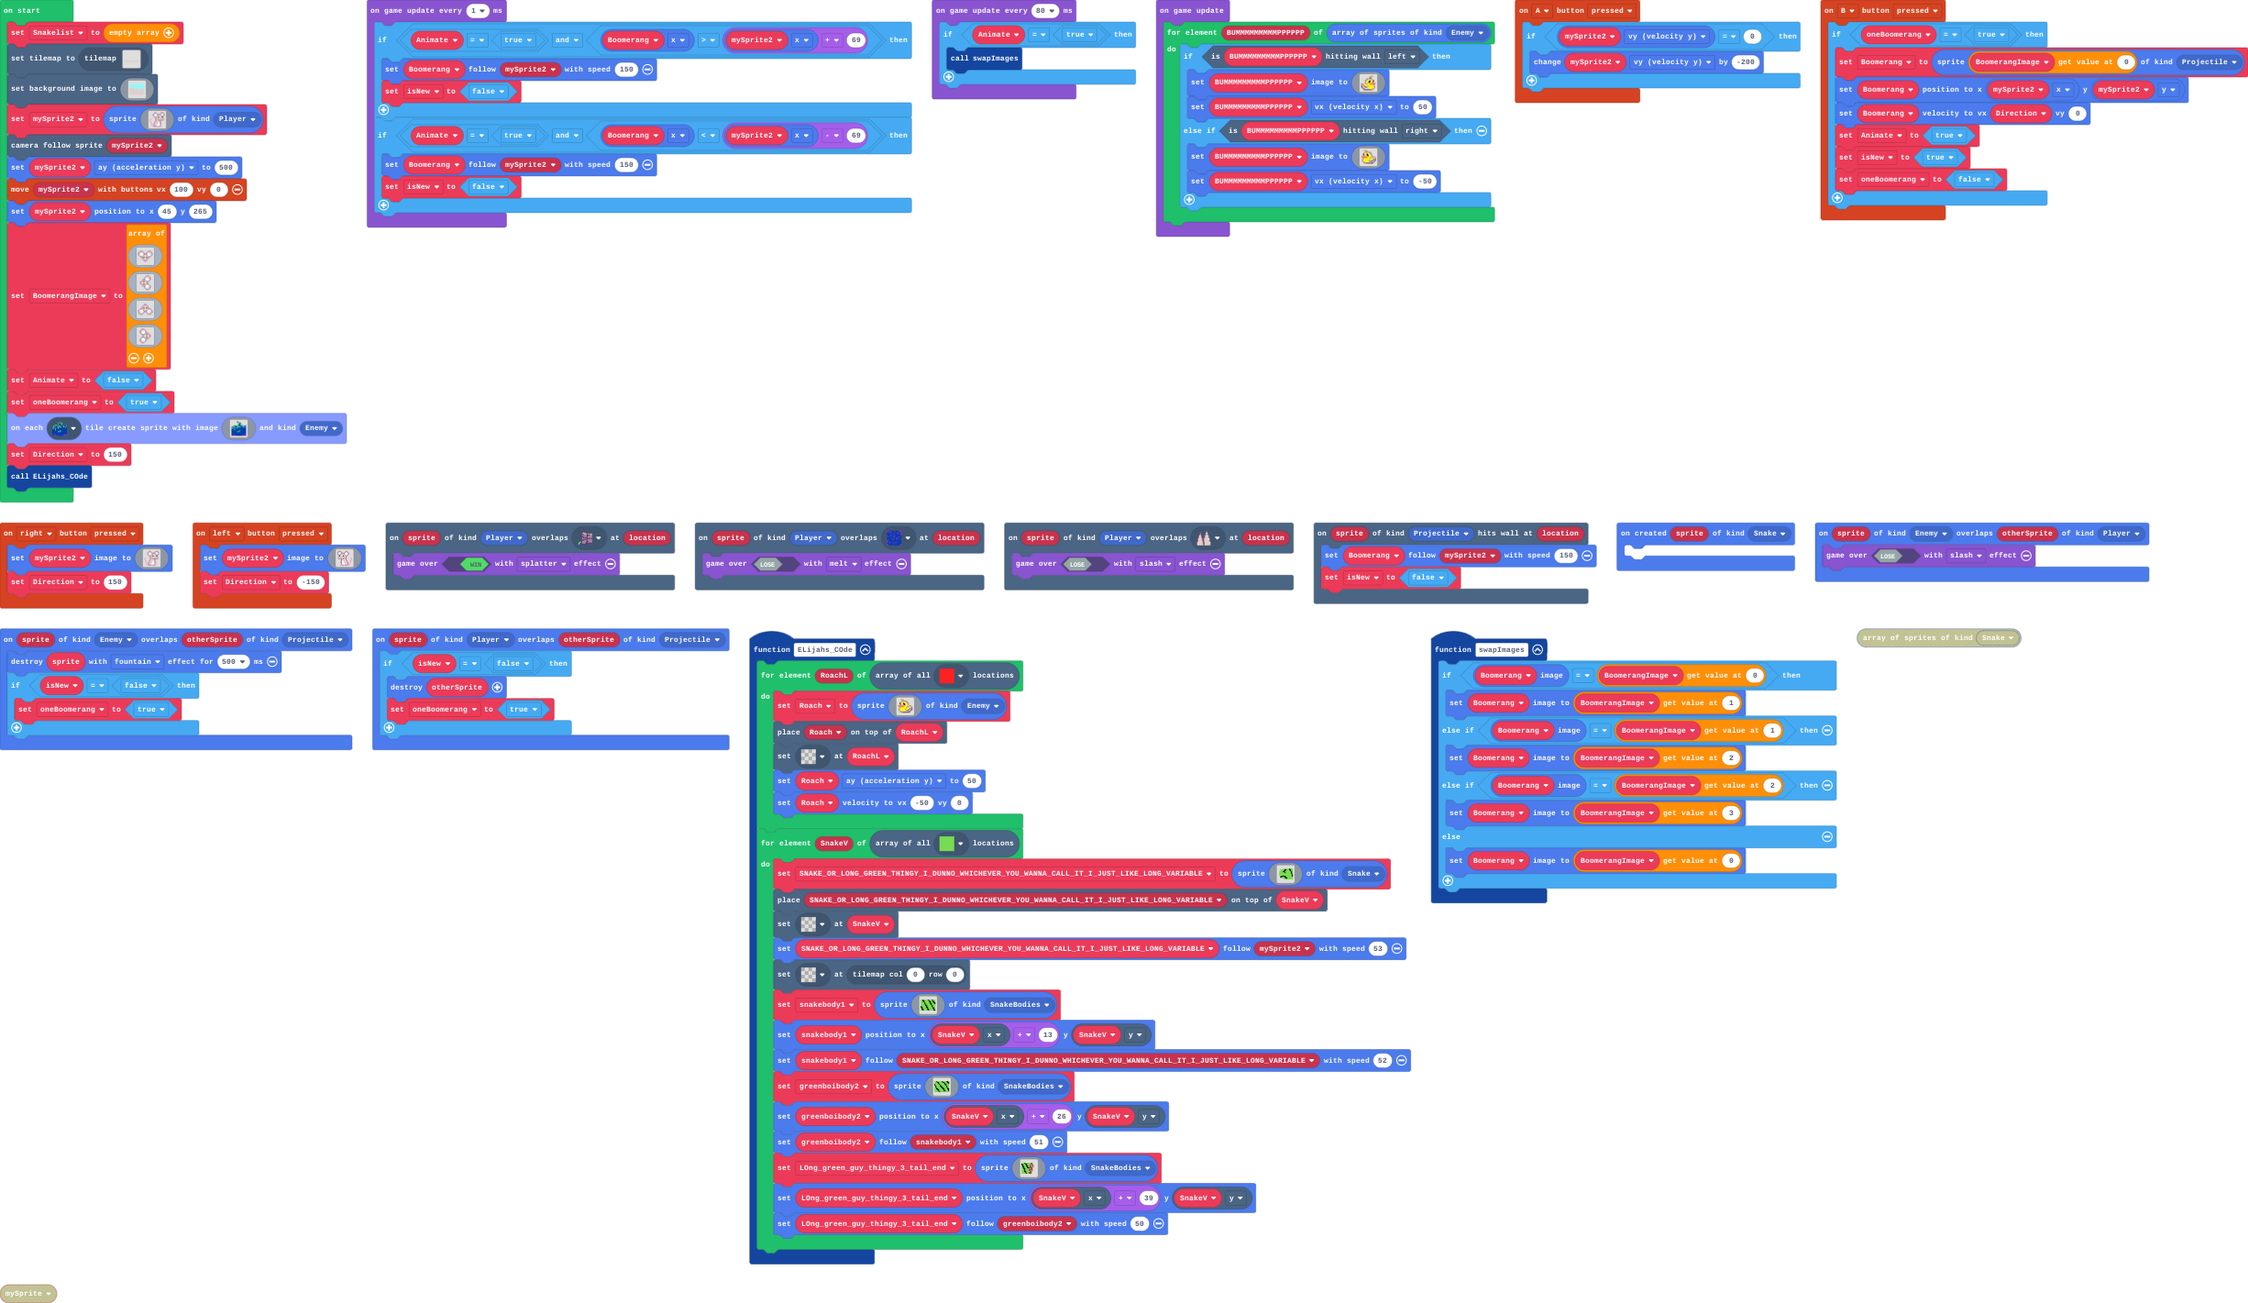
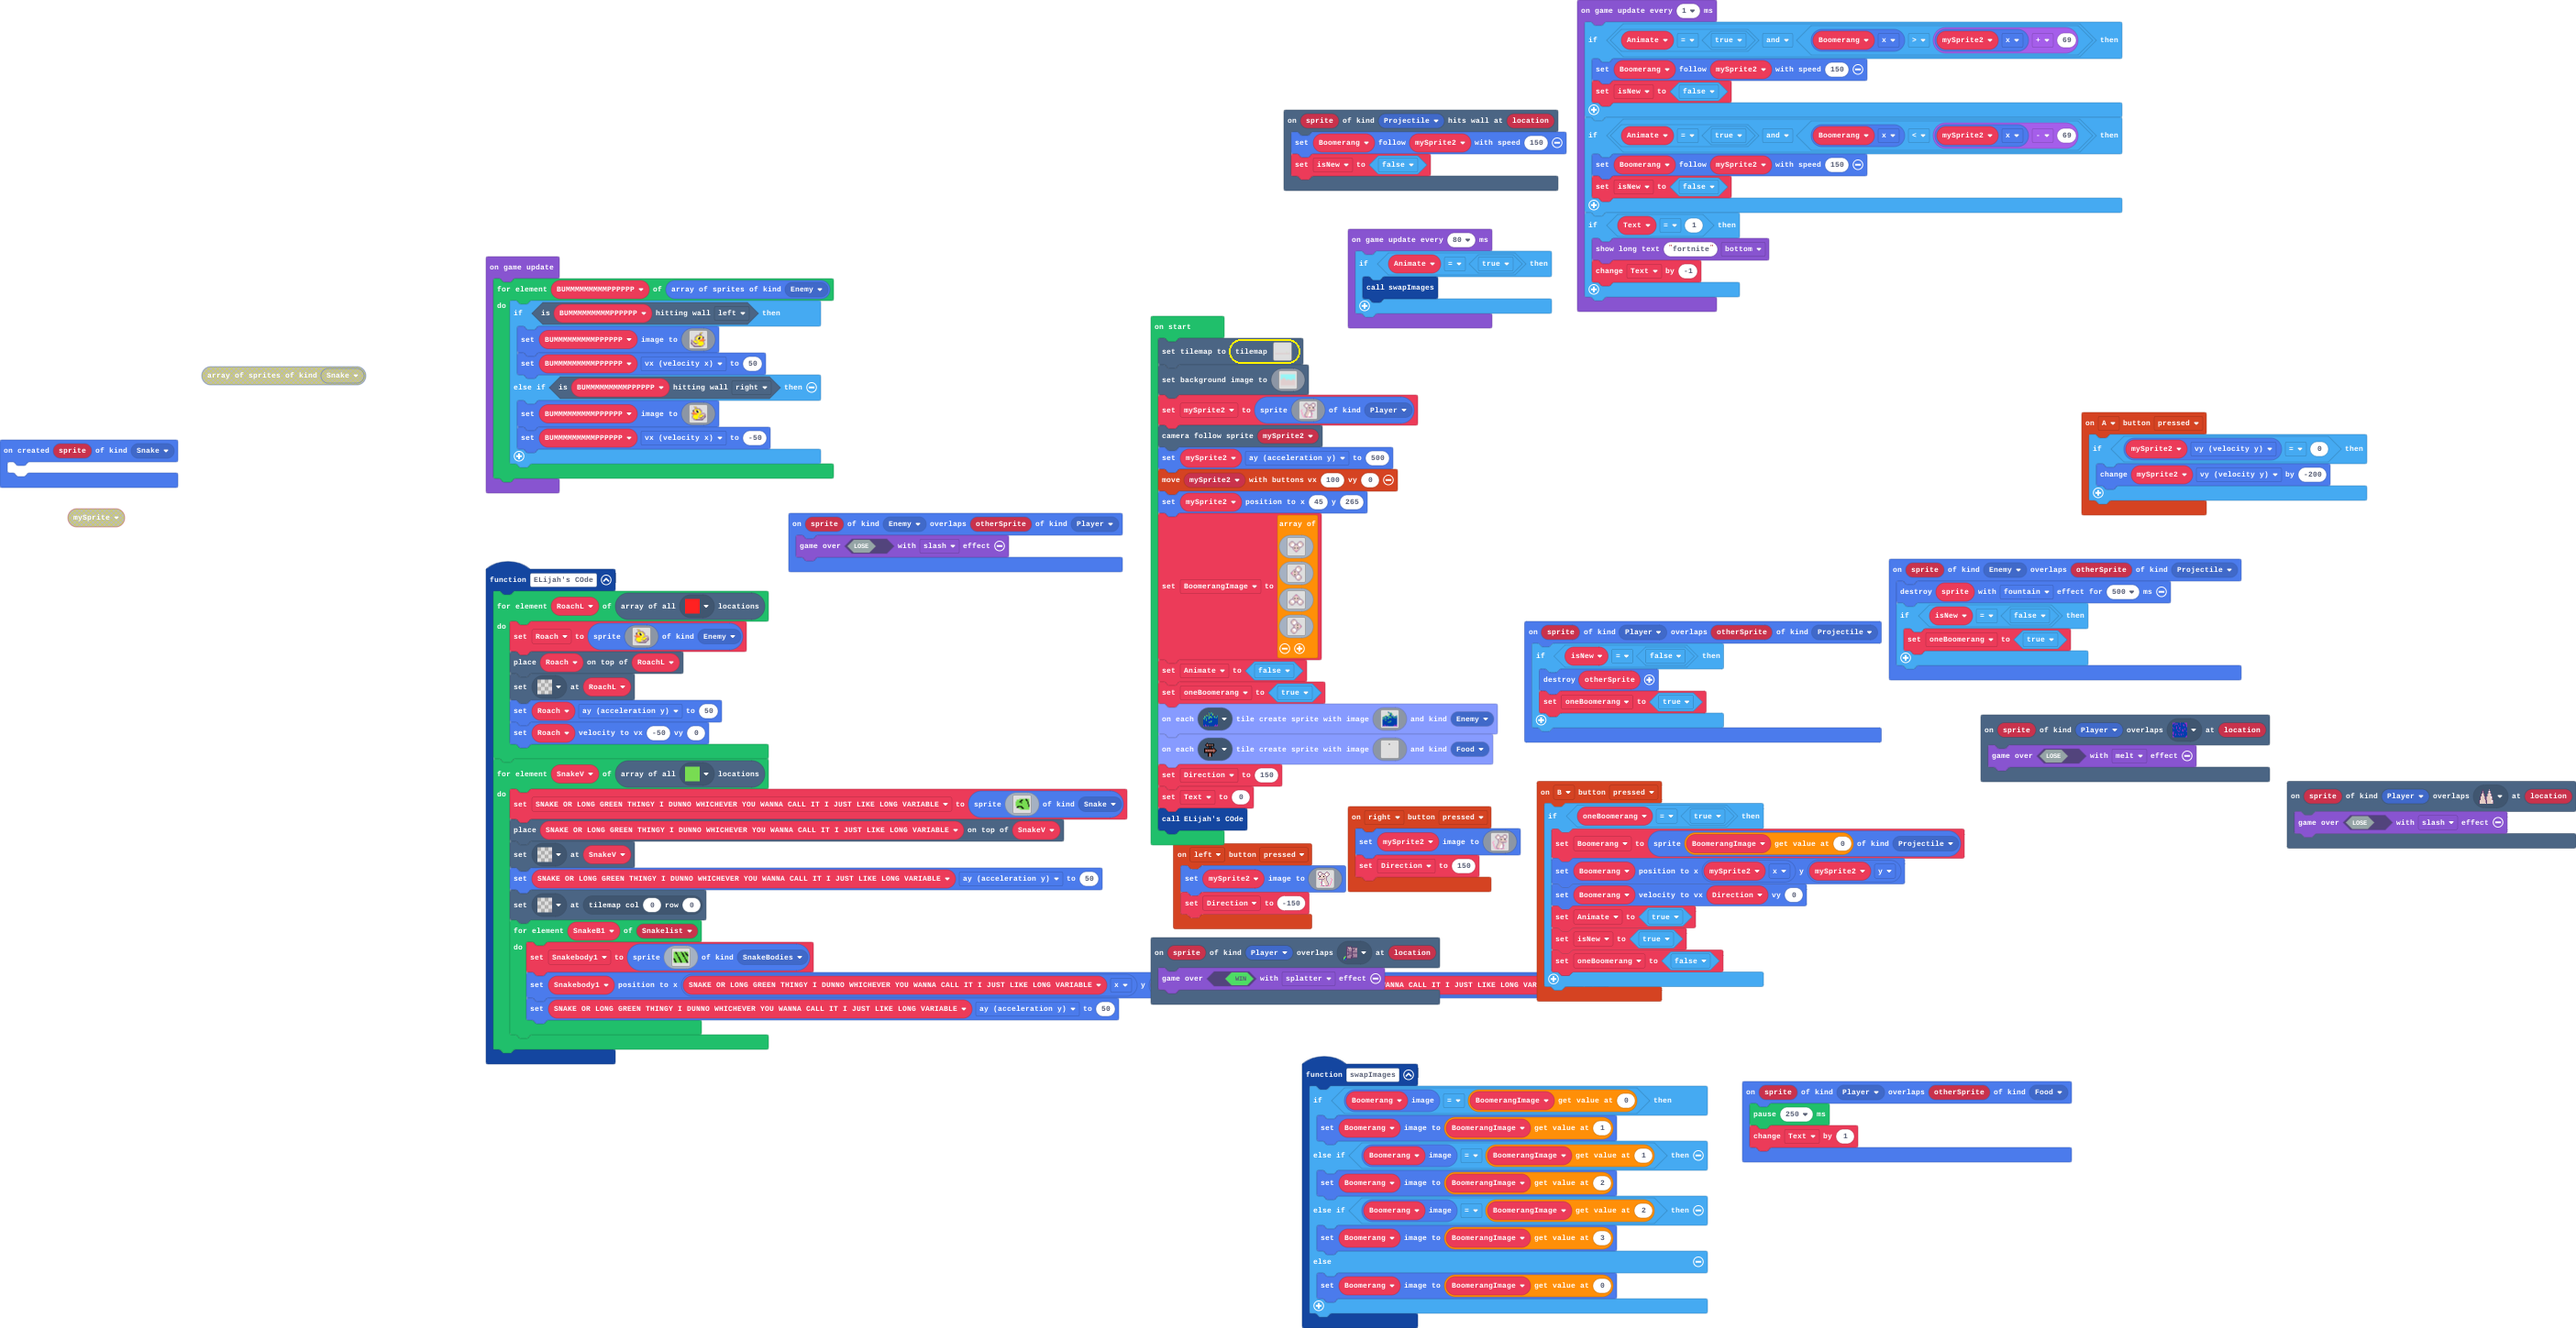
Restore '10/26/2022, 9:43:46 AM Restore '10/25/2022, 10:10:49 AM Update main.blocks, main.ts''

diff --git a/main.ts b/main.ts
@@ -2,6 +2,7 @@ namespace SpriteKind {
     export const Snake = SpriteKind.create()
     export const SnakeBodies = SpriteKind.create()
 }
+let Snakelist: number[] = []
 scene.onOverlapTile(SpriteKind.Player, assets.tile`BadWater`, function (sprite, location) {
     game.over(false, effects.melt)
 })
@@ -44,31 +45,6 @@ function swapImages () {
         Boomerang.setImage(BoomerangImage[0])
     }
 }
-function ELijahs_COde () {
-    for (let RoachL of tiles.getTilesByType(assets.tile`Roach`)) {
-        Roach = sprites.create(assets.image`Roach other direction`, SpriteKind.Enemy)
-        tiles.placeOnTile(Roach, RoachL)
-        tiles.setTileAt(RoachL, assets.tile`transparency16`)
-        Roach.ay = 50
-        Roach.setVelocity(-50, 0)
-    }
-    for (let SnakeV of tiles.getTilesByType(assets.tile`Snake`)) {
-        SNAKE_OR_LONG_GREEN_THINGY_I_DUNNO_WHICHEVER_YOU_WANNA_CALL_IT_I_JUST_LIKE_LONG_VARIABLE = sprites.create(assets.image`Snake Head`, SpriteKind.Snake)
-        tiles.placeOnTile(SNAKE_OR_LONG_GREEN_THINGY_I_DUNNO_WHICHEVER_YOU_WANNA_CALL_IT_I_JUST_LIKE_LONG_VARIABLE, SnakeV)
-        tiles.setTileAt(SnakeV, assets.tile`transparency16`)
-        SNAKE_OR_LONG_GREEN_THINGY_I_DUNNO_WHICHEVER_YOU_WANNA_CALL_IT_I_JUST_LIKE_LONG_VARIABLE.follow(mySprite2, 53)
-        tiles.setTileAt(tiles.getTileLocation(0, 0), assets.tile`transparency16`)
-        snakebody1 = sprites.create(assets.image`Greenthing body 1`, SpriteKind.SnakeBodies)
-        snakebody1.setPosition(SnakeV.x + 13, SnakeV.y)
-        snakebody1.follow(SNAKE_OR_LONG_GREEN_THINGY_I_DUNNO_WHICHEVER_YOU_WANNA_CALL_IT_I_JUST_LIKE_LONG_VARIABLE, 52)
-        greenboibody2 = sprites.create(assets.image`LOng boi 2`, SpriteKind.SnakeBodies)
-        greenboibody2.setPosition(SnakeV.x + 26, SnakeV.y)
-        greenboibody2.follow(snakebody1, 51)
-        LOng_green_guy_thingy_3_tail_end = sprites.create(assets.image`Long GReeennnn thingy tail`, SpriteKind.SnakeBodies)
-        LOng_green_guy_thingy_3_tail_end.setPosition(SnakeV.x + 39, SnakeV.y)
-        LOng_green_guy_thingy_3_tail_end.follow(greenboibody2, 50)
-    }
-}
 controller.right.onEvent(ControllerButtonEvent.Pressed, function () {
     mySprite2.setImage(assets.image`Ratthew`)
     Direction = 150
@@ -96,9 +72,28 @@ scene.onHitWall(SpriteKind.Projectile, function (sprite, location) {
 sprites.onCreated(SpriteKind.Snake, function (sprite) {
 	
 })
-let LOng_green_guy_thingy_3_tail_end: Sprite = null
-let greenboibody2: Sprite = null
-let snakebody1: Sprite = null
+function ELijahs_COde () {
+    for (let RoachL of tiles.getTilesByType(assets.tile`Roach`)) {
+        Roach = sprites.create(assets.image`Roach other direction`, SpriteKind.Enemy)
+        tiles.placeOnTile(Roach, RoachL)
+        tiles.setTileAt(RoachL, assets.tile`transparency16`)
+        Roach.ay = 50
+        Roach.setVelocity(-50, 0)
+    }
+    for (let SnakeV of tiles.getTilesByType(assets.tile`Snake`)) {
+        SNAKE_OR_LONG_GREEN_THINGY_I_DUNNO_WHICHEVER_YOU_WANNA_CALL_IT_I_JUST_LIKE_LONG_VARIABLE = sprites.create(assets.image`Snake Head`, SpriteKind.Snake)
+        tiles.placeOnTile(SNAKE_OR_LONG_GREEN_THINGY_I_DUNNO_WHICHEVER_YOU_WANNA_CALL_IT_I_JUST_LIKE_LONG_VARIABLE, SnakeV)
+        tiles.setTileAt(SnakeV, assets.tile`transparency16`)
+        SNAKE_OR_LONG_GREEN_THINGY_I_DUNNO_WHICHEVER_YOU_WANNA_CALL_IT_I_JUST_LIKE_LONG_VARIABLE.ay = 50
+        tiles.setTileAt(tiles.getTileLocation(0, 0), assets.tile`transparency16`)
+        for (let SnakeB1 of Snakelist) {
+            Snakebody1 = sprites.create(assets.image`Greenthing body 1`, SpriteKind.SnakeBodies)
+            Snakebody1.setPosition(SNAKE_OR_LONG_GREEN_THINGY_I_DUNNO_WHICHEVER_YOU_WANNA_CALL_IT_I_JUST_LIKE_LONG_VARIABLE.x, SNAKE_OR_LONG_GREEN_THINGY_I_DUNNO_WHICHEVER_YOU_WANNA_CALL_IT_I_JUST_LIKE_LONG_VARIABLE.y)
+            SNAKE_OR_LONG_GREEN_THINGY_I_DUNNO_WHICHEVER_YOU_WANNA_CALL_IT_I_JUST_LIKE_LONG_VARIABLE.ay = 50
+        }
+    }
+}
+let Snakebody1: Sprite = null
 let SNAKE_OR_LONG_GREEN_THINGY_I_DUNNO_WHICHEVER_YOU_WANNA_CALL_IT_I_JUST_LIKE_LONG_VARIABLE: Sprite = null
 let Roach: Sprite = null
 let isNew = false
@@ -108,7 +103,6 @@ let oneBoomerang = false
 let Animate = false
 let BoomerangImage: Image[] = []
 let mySprite2: Sprite = null
-let Snakelist: number[] = []
 tiles.setCurrentTilemap(tilemap`level1`)
 scene.setBackgroundImage(img`
     9999999999999999999999999999999999999999999999999999999999999999999999999999999999999999999999999999999999999999999999999999999999999999999999999999999999999999
